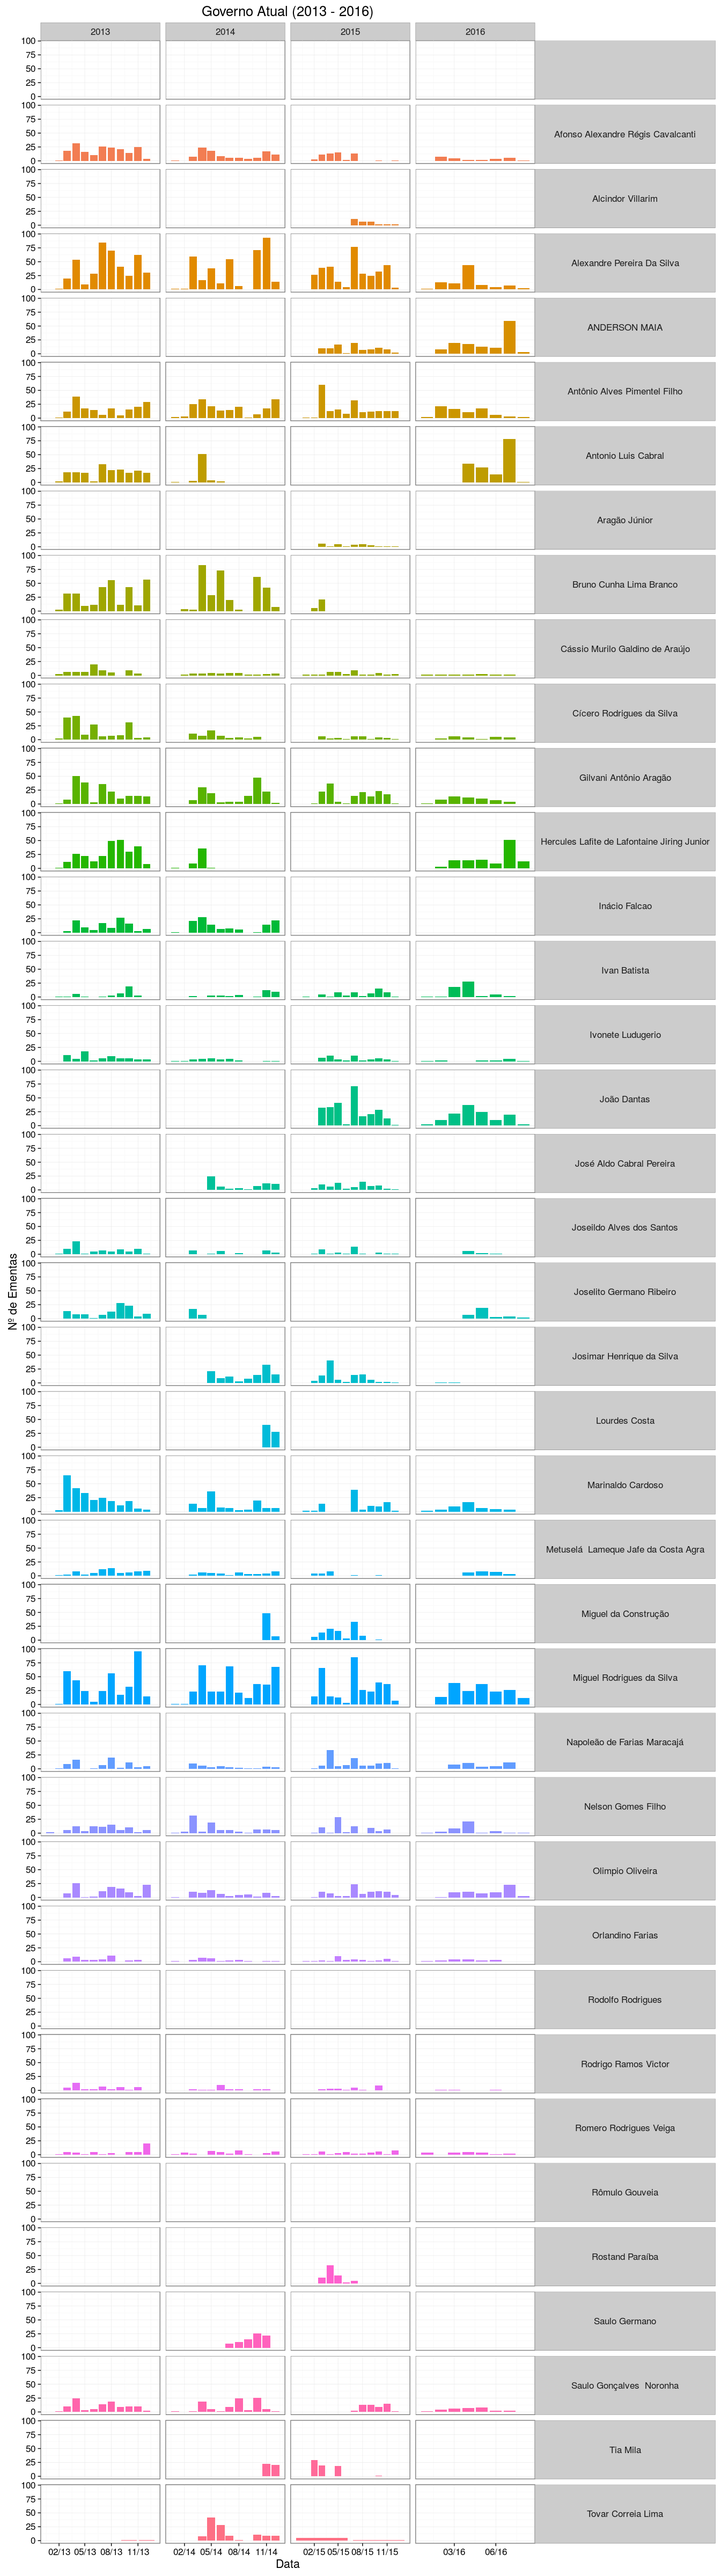
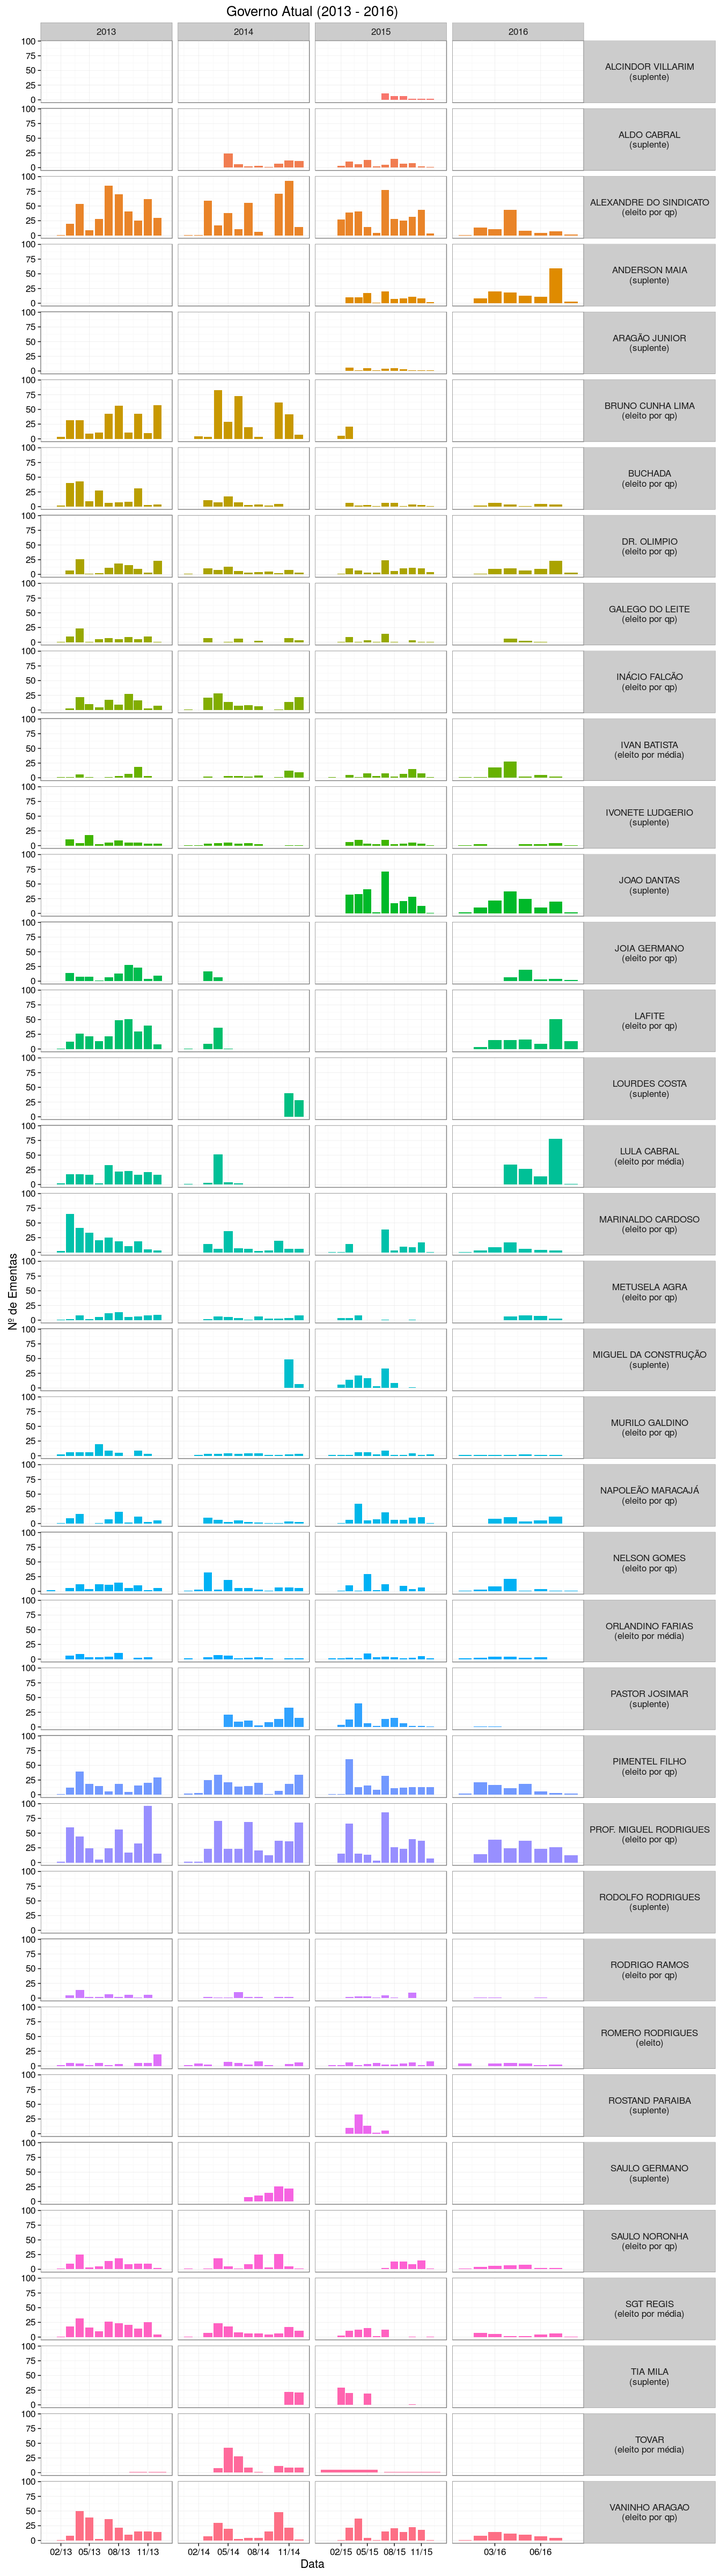
Atualizando analises dos vereadores individualmente com informacao de suplentes e usando as novas tabelas de mapeamento (super very big mão na roda! xD). Adicionando tambem listagem de vereadores e suas reeleicoes.

Changed region(s): [[0.0312, 0.0, 1.0, 1.0], [0.4688, 0.4688, 0.5, 0.5], [0.3125, 0.0, 0.3438, 0.0312]]

diff --git a/insights/reeleicoes.md b/insights/reeleicoes.md
@@ -1,0 +1,159 @@
+Releições entre mandatos (2008, 2012 e 2016?)
+================
+27 de Agosto, 2016
+
+### Quais foram os **prefeitos** e **vereadores** que exerceram mandatos em 2008 e/ou em 2012 e qual sua situação no final da eleição?
+
+|   id|  ano\_eleicao| cargo    | nome\_candidato                                  | situacao\_eleicao |
+|----:|-------------:|:---------|:-------------------------------------------------|:------------------|
+|    1|          2008| PREFEITO | VENEZIANO VITAL DO REGO SEGUNDO NETO             | ELEITO            |
+|    2|          2008| VEREADOR | ALCIDES CAVALCANTI DA SILVA                      | MÉDIA             |
+|    3|          2008| VEREADOR | ANTONIO ALVES PIMENTEL FILHO                     | MÉDIA             |
+|    4|          2008| VEREADOR | ANTONIO PEREIRA BARBOSA                          | ELEITO            |
+|    5|          2008| VEREADOR | BRUNO ROMANO DO AMORIM GAUDENCIO                 | SUPLENTE          |
+|    6|          2008| VEREADOR | CASSIANO PASCOAL MEDEIROS PEREIRA                | MÉDIA             |
+|    7|          2008| VEREADOR | DANIELLA VELLOSO BORGES RIBEIRO NOVAIS DE ARAUJO | ELEITO            |
+|    8|          2008| VEREADOR | FABRINNI GAUDENCIO BRITO                         | SUPLENTE          |
+|    9|          2008| VEREADOR | INACIO JUSTINO FALCAO PEREIRA                    | ELEITO            |
+|   10|          2008| VEREADOR | IVONETE ALMEIDA DE ANDRADE LUDGERIO              | ELEITO            |
+|   11|          2008| VEREADOR | JOAO CRISOSTOMO MOREIRA DANTAS                   | SUPLENTE          |
+|   12|          2008| VEREADOR | JOSE FERNANDO COSTA CARVALHO                     | ELEITO            |
+|   13|          2008| VEREADOR | JOSELITO GERMANO RIBEIRO                         | ELEITO            |
+|   14|          2008| VEREADOR | JOSE MARCOS RAIA                                 | ELEITO            |
+|   15|          2008| VEREADOR | JOSE MARINALDO CARDOSO                           | SUPLENTE          |
+|   16|          2008| VEREADOR | JOSE RIBAMAR ALVES DE OLIVEIRA                   | SUPLENTE          |
+|   17|          2008| VEREADOR | LAELSON PATRICIO LIMA DO NASCIMENTO              | ELEITO            |
+|   18|          2008| VEREADOR | METUSELA LAMEQUE JAFE DA COSTA AGRA DE MELLO     | ELEITO            |
+|   19|          2008| VEREADOR | NELSON GOMES FILHO                               | ELEITO            |
+|   20|          2008| VEREADOR | OLIMPIO OLIVEIRA                                 | ELEITO            |
+|   21|          2008| VEREADOR | ORLANDINO PEREIRA DE FARIAS                      | SUPLENTE          |
+|   22|          2008| VEREADOR | PAULO EDUARDO MUNIZ GOMES                        | SUPLENTE          |
+|   23|          2008| VEREADOR | PERON RIBEIRO JAPIASSU                           | SUPLENTE          |
+|   24|          2008| VEREADOR | RODOLFO RODRIGUES                                | ELEITO            |
+|   25|          2008| VEREADOR | TOVAR ALVES CORREIA LIMA                         | MÉDIA             |
+
+|   id|  ano\_eleicao| cargo    | nome\_candidato                               | situacao\_eleicao |
+|----:|-------------:|:---------|:----------------------------------------------|:------------------|
+|   26|          2012| PREFEITO | ROMERO RODRIGUES VEIGA                        | ELEITO            |
+|   27|          2012| VEREADOR | AFONSO ALEXANDRE REGIS CAVALCANTE             | ELEITO POR MÉDIA  |
+|   28|          2012| VEREADOR | ALCINDOR VILLARIM FILHO                       | SUPLENTE          |
+|   29|          2012| VEREADOR | ALEXANDRE PEREIRA DA SILVA                    | ELEITO POR QP     |
+|   30|          2012| VEREADOR | ANDERSON FILIPI MAIA DE MENEZES               | SUPLENTE          |
+|   31|          2012| VEREADOR | ANTONIO ALVES PIMENTEL FILHO                  | ELEITO POR QP     |
+|   32|          2012| VEREADOR | ANTONIO LUIZ CABRAL                           | ELEITO POR MÉDIA  |
+|   33|          2012| VEREADOR | BRUNO CUNHA LIMA BRANCO                       | ELEITO POR QP     |
+|   34|          2012| VEREADOR | CASSIO MURILO GALDINO DE ARAUJO               | ELEITO POR QP     |
+|   35|          2012| VEREADOR | CICERO RODRIGUES DA SILVA                     | ELEITO POR QP     |
+|   36|          2012| VEREADOR | GILVANI ANTONIO ARAGAO                        | ELEITO POR QP     |
+|   37|          2012| VEREADOR | HERCULES LAFITE DE LAFONTAINE JINKINGS JÚNIOR | ELEITO POR QP     |
+|   38|          2012| VEREADOR | INÁCIO JUSTINO FALCÃO PEREIRA                 | ELEITO POR QP     |
+|   39|          2012| VEREADOR | IVAN OLIVEIRA BATISTA                         | ELEITO POR MÉDIA  |
+|   40|          2012| VEREADOR | IVONETE ALMEIDA DE ANDRADE LUDGERIO           | SUPLENTE          |
+|   41|          2012| VEREADOR | JOAO CRISOSTOMO MOREIRA DANTAS                | SUPLENTE          |
+|   42|          2012| VEREADOR | JOSE ALDO CABRAL PEREIRA                      | SUPLENTE          |
+|   43|          2012| VEREADOR | JOSE COSTA ARAGÃO JUNIOR                      | SUPLENTE          |
+|   44|          2012| VEREADOR | JOSEILDO ALVES DOS SANTOS                     | ELEITO POR QP     |
+|   45|          2012| VEREADOR | JOSELITO GERMANO RIBEIRO                      | ELEITO POR QP     |
+|   46|          2012| VEREADOR | JOSÉ MARINALDO CARDOSO                        | ELEITO POR QP     |
+|   47|          2012| VEREADOR | JOSIMAR HENRIQUE DA SILVA                     | SUPLENTE          |
+|   48|          2012| VEREADOR | MARIA LOURDES SERAFIM DA COSTA                | SUPLENTE          |
+|   49|          2012| VEREADOR | METUSELA LAMEQUE JAFE DA COSTA AGRA DE MELLO  | ELEITO POR QP     |
+|   50|          2012| VEREADOR | MIGUEL LOPES DA SILVA FILHO                   | SUPLENTE          |
+|   51|          2012| VEREADOR | MIGUEL RODRIGUES DA SILVA                     | ELEITO POR QP     |
+|   52|          2012| VEREADOR | MILANA SALES DE MELO                          | SUPLENTE          |
+|   53|          2012| VEREADOR | NAPOLEÃO DE FARIAS MARACAJÁ                   | ELEITO POR QP     |
+|   54|          2012| VEREADOR | NELSON GOMES FILHO                            | ELEITO POR QP     |
+|   55|          2012| VEREADOR | OLIMPIO OLIVEIRA                              | ELEITO POR QP     |
+|   56|          2012| VEREADOR | ORLANDINO PEREIRA DE FARIAS                   | ELEITO POR MÉDIA  |
+|   57|          2012| VEREADOR | RODOLFO RODRIGUES                             | SUPLENTE          |
+|   58|          2012| VEREADOR | RODRIGO RAMOS VICTOR                          | ELEITO POR QP     |
+|   59|          2012| VEREADOR | ROSTAND MIRANDA CAVALCANTE                    | SUPLENTE          |
+|   60|          2012| VEREADOR | SAULO GONCALVES NORONHA                       | ELEITO POR QP     |
+|   61|          2012| VEREADOR | SAULO MESSIAS GARCIA RIBEIRO                  | SUPLENTE          |
+|   62|          2012| VEREADOR | TOVAR ALVES CORREIA LIMA                      | ELEITO POR MÉDIA  |
+
+### Quantos **vereadores suplentes** foram convocados para exercer os mandatos em 2008 e 2012?
+
+|  ano\_eleicao|    n|
+|-------------:|----:|
+|          2008|    8|
+|          2012|   13|
+
+### Quais pessoas que exerceram o mandato em 2008 se candidataram novamente em 2012?
+
+|   id| cargo    | nome\_candidato                              | situacao\_eleicao |
+|----:|:---------|:---------------------------------------------|:------------------|
+|    1| VEREADOR | ALCIDES CAVALCANTI DA SILVA                  | NÃO ELEITO        |
+|    2| VEREADOR | ANTONIO ALVES PIMENTEL FILHO                 | ELEITO POR QP     |
+|    3| VEREADOR | ANTONIO PEREIRA BARBOSA                      | SUPLENTE          |
+|    4| VEREADOR | CASSIANO PASCOAL MEDEIROS PEREIRA            | SUPLENTE          |
+|    5| VEREADOR | IVONETE ALMEIDA DE ANDRADE LUDGERIO          | SUPLENTE          |
+|    6| VEREADOR | JOAO CRISOSTOMO MOREIRA DANTAS               | SUPLENTE          |
+|    7| VEREADOR | JOSELITO GERMANO RIBEIRO                     | ELEITO POR QP     |
+|    8| VEREADOR | JOSE MARCOS RAIA                             | SUPLENTE          |
+|    9| VEREADOR | JOSE RIBAMAR ALVES DE OLIVEIRA               | SUPLENTE          |
+|   10| VEREADOR | METUSELA LAMEQUE JAFE DA COSTA AGRA DE MELLO | ELEITO POR QP     |
+|   11| VEREADOR | NELSON GOMES FILHO                           | ELEITO POR QP     |
+|   12| VEREADOR | OLIMPIO OLIVEIRA                             | ELEITO POR QP     |
+|   13| VEREADOR | ORLANDINO PEREIRA DE FARIAS                  | ELEITO POR MÉDIA  |
+|   14| VEREADOR | RODOLFO RODRIGUES                            | SUPLENTE          |
+|   15| VEREADOR | TOVAR ALVES CORREIA LIMA                     | ELEITO POR MÉDIA  |
+
+### Quais deles (mandato em 2008 e candidatos em 2012) de fato exerceram mandato em 2012?
+
+|   id| nome\_candidato                              |
+|----:|:---------------------------------------------|
+|    1| ANTONIO ALVES PIMENTEL FILHO                 |
+|    2| IVONETE ALMEIDA DE ANDRADE LUDGERIO          |
+|    3| JOAO CRISOSTOMO MOREIRA DANTAS               |
+|    4| JOSELITO GERMANO RIBEIRO                     |
+|    5| METUSELA LAMEQUE JAFE DA COSTA AGRA DE MELLO |
+|    6| NELSON GOMES FILHO                           |
+|    7| OLIMPIO OLIVEIRA                             |
+|    8| ORLANDINO PEREIRA DE FARIAS                  |
+|    9| RODOLFO RODRIGUES                            |
+|   10| TOVAR ALVES CORREIA LIMA                     |
+
+### Quantos prefeitos/vereadores dos mandatos 2008 e 2012 estão tentando se reeleger em 2016?
+
+|   id|  ano\_mandato| cargo    | nome\_candidato                      |
+|----:|-------------:|:---------|:-------------------------------------|
+|    1|          2008| PREFEITO | VENEZIANO VITAL DO REGO SEGUNDO NETO |
+|    2|          2008| VEREADOR | ALCIDES CAVALCANTI DA SILVA          |
+|    3|          2008| VEREADOR | ANTONIO ALVES PIMENTEL FILHO         |
+|    4|          2008| VEREADOR | BRUNO ROMANO DO AMORIM GAUDENCIO     |
+|    5|          2008| VEREADOR | IVONETE ALMEIDA DE ANDRADE LUDGERIO  |
+|    6|          2008| VEREADOR | JOSELITO GERMANO RIBEIRO             |
+|    7|          2008| VEREADOR | JOSE MARCOS RAIA                     |
+|    8|          2008| VEREADOR | JOSE MARINALDO CARDOSO               |
+|    9|          2008| VEREADOR | JOSE RIBAMAR ALVES DE OLIVEIRA       |
+|   10|          2008| VEREADOR | LAELSON PATRICIO LIMA DO NASCIMENTO  |
+|   11|          2008| VEREADOR | NELSON GOMES FILHO                   |
+|   12|          2008| VEREADOR | OLIMPIO OLIVEIRA                     |
+|   13|          2008| VEREADOR | PAULO EDUARDO MUNIZ GOMES            |
+|   14|          2008| VEREADOR | PERON RIBEIRO JAPIASSU               |
+|   15|          2008| VEREADOR | RODOLFO RODRIGUES                    |
+
+|   id|  ano\_mandato| cargo    | nome\_candidato                     |
+|----:|-------------:|:---------|:------------------------------------|
+|    1|          2012| PREFEITO | ROMERO RODRIGUES VEIGA              |
+|    2|          2012| VEREADOR | AFONSO ALEXANDRE REGIS CAVALCANTE   |
+|    3|          2012| VEREADOR | ALCINDOR VILLARIM FILHO             |
+|    4|          2012| VEREADOR | ALEXANDRE PEREIRA DA SILVA          |
+|    5|          2012| VEREADOR | ANDERSON FILIPI MAIA DE MENEZES     |
+|    6|          2012| VEREADOR | ANTONIO ALVES PIMENTEL FILHO        |
+|    7|          2012| VEREADOR | ANTONIO LUIZ CABRAL                 |
+|    8|          2012| VEREADOR | IVAN OLIVEIRA BATISTA               |
+|    9|          2012| VEREADOR | IVONETE ALMEIDA DE ANDRADE LUDGERIO |
+|   10|          2012| VEREADOR | JOSEILDO ALVES DOS SANTOS           |
+|   11|          2012| VEREADOR | JOSELITO GERMANO RIBEIRO            |
+|   12|          2012| VEREADOR | JOSE MARINALDO CARDOSO              |
+|   13|          2012| VEREADOR | JOSIMAR HENRIQUE DA SILVA           |
+|   14|          2012| VEREADOR | MIGUEL RODRIGUES DA SILVA           |
+|   15|          2012| VEREADOR | MILANA SALES DE MELO                |
+|   16|          2012| VEREADOR | NELSON GOMES FILHO                  |
+|   17|          2012| VEREADOR | OLIMPIO OLIVEIRA                    |
+|   18|          2012| VEREADOR | RODOLFO RODRIGUES                   |
+|   19|          2012| VEREADOR | RODRIGO RAMOS VICTOR                |
+|   20|          2012| VEREADOR | ROSTAND MIRANDA CAVALCANTE          |
+|   21|          2012| VEREADOR | SAULO MESSIAS GARCIA RIBEIRO        |

diff --git a/insights/vereador_expliqueme.md b/insights/vereador_expliqueme.md
@@ -2,7 +2,9 @@ Meu Vereador? Explique-me por favor...
 ================
 19 de Agosto, 2016
 
-Nessa análise buscamos capturar os padrões temporais do trabalho dos vereadores da Câmara Municipal de Campina Grande individualmente (notem que os Prefeitos também estão inclusos pois também podem propor ementas). Visualizando os gráficos no tempo encontramos alguns vereadores que publicam ementas corriqueiramente, mas estranhamente vemos vários que passam anos sem propor ementa alguma? Qual a razão dessa disparidade?
+Nessa análise buscamos capturar os padrões temporais do trabalho dos vereadores da Câmara Municipal de Campina Grande individualmente (notem que os Prefeitos também estão inclusos pois também podem propor ementas). Visualizando os gráficos no tempo encontramos alguns vereadores que publicam ementas corriqueiramente, mas estranhamente vemos vários que passam meses sem propor ementa alguma? Qual a razão dessa disparidade?
+
+Uma das razões são os mandatos dos Vereadores *suplentes*. Para que um *suplente* exerça a candidatura outro candidato deve sair. Assim, podemos encontrar situações com uma parada repentina na produção de proposições e um início repentino, consequentemente.
 
 ![](vereador_expliqueme_files/figure-markdown_github/proponent_over_time-1.png)![](vereador_expliqueme_files/figure-markdown_github/proponent_over_time-2.png)
 

diff --git a/data/README.md b/data/README.md
@@ -21,3 +21,6 @@ A tabela **comissoes_tecnicas** lista as comissões técnicas formadas na câmar
 
 #### Tabelas do TSE
 As tabelas do TSE tem suas próprias descrições disponibilizadas pelo Repositório e também acessíveis aqui: [TSE_Leiame_2016.pdf](TSE_Leiame_2016.pdf) 
+
+**Dicas**
+* A cada eleição o TSE gera identificadores sequenciais (i.e. *sequencial_candidato*) para os candidatos. Então esse sequencial não pode ser usado para unir tabelas em diferentes eleições, para tal pode-se usar o nome do candidato (i.e. *nome_candidato*)
